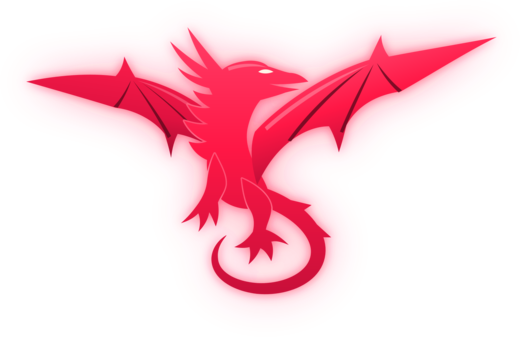
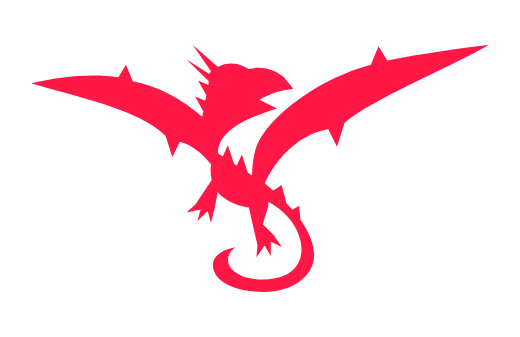
Show the refined Draconitic mark (#4)
The README now shows the refined dragon mark, and brand/ carries it as
SVG and PNG.

Changed region(s): [[0.0308, 0.089, 0.9538, 0.9199]]

diff --git a/README.md b/README.md
@@ -30,4 +30,4 @@ An independent lab building open-source scientific software and AI tools: metabo
 
 [support@draconitic.com](mailto:support@draconitic.com). If this work is useful to you, you can [support it on Patreon](https://www.patreon.com/zach457).
 
-The dragon, as vector and raster, is in [`brand/`](brand/).
+The dragon mark is in [`brand/`](brand/): `draconitic-mark.svg` (vector) and `draconitic-labs-dragon-mark.png` (raster).
